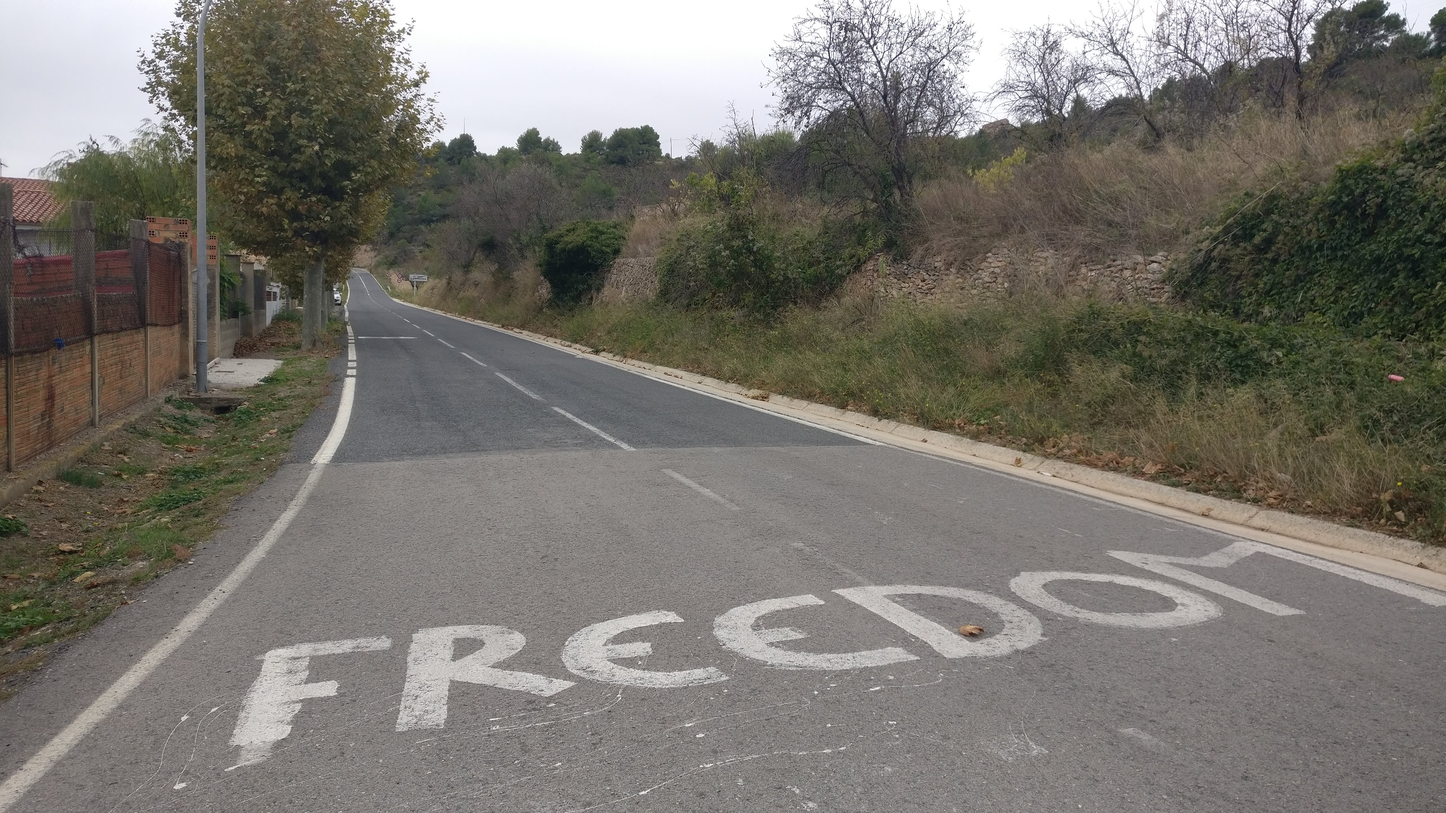
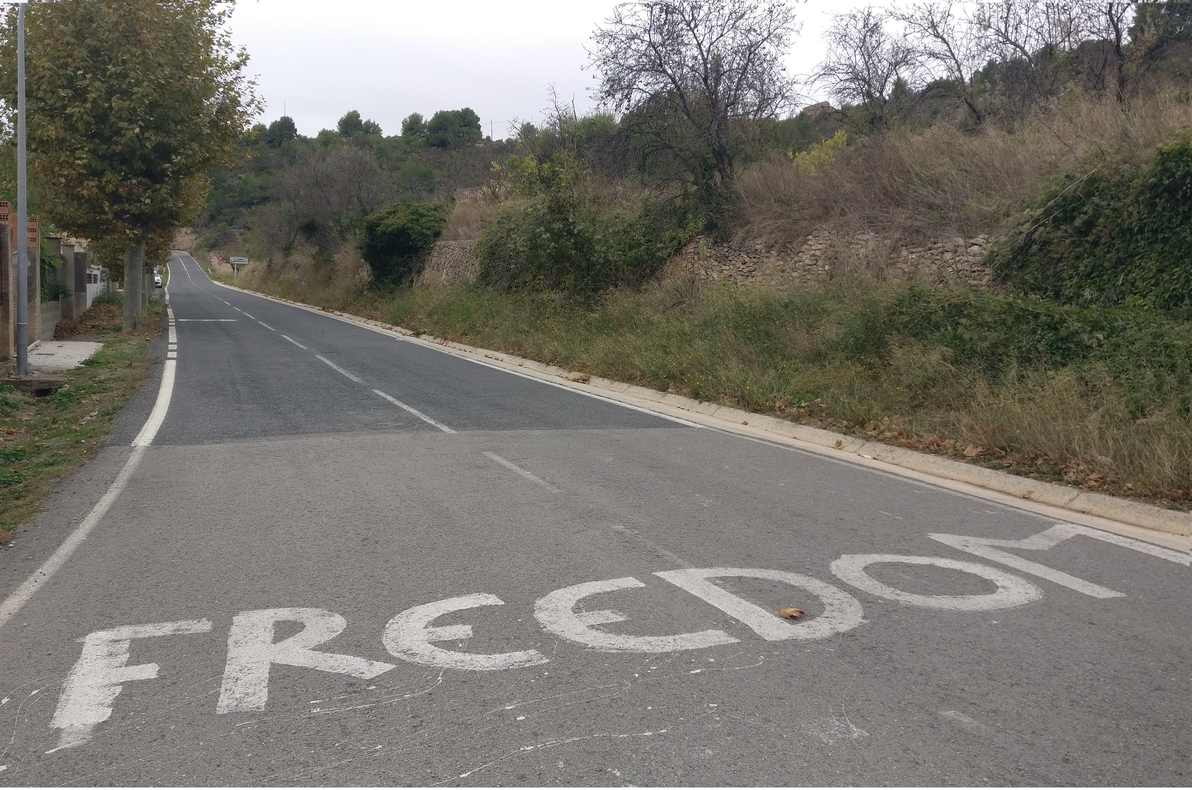
added shortcode  / start next post / image rework

diff --git a/assets/css/style-shortcodes.css b/assets/css/style-shortcodes.css
@@ -1,0 +1,51 @@
+div.notices {
+    position: relative;
+}
+div.notices p {
+    padding: 15px;
+    display: block;
+    margin-top: 0rem;
+    margin-bottom: 0rem;
+    color: #666;
+}
+div.notices p:first-child:before {
+    top: 2px;
+    color: #fff;
+    font-weight: 900;
+    content: "";
+    left: 10px;
+}
+div.notices p:first-child:after {
+    position: absolute;
+    top: 2px;
+    color: #fff;
+    left: 2rem;
+}
+div.notices.info p {
+    border-top: 30px solid #F0B37E;
+    background: #FFF2DB;
+}
+div.notices.info p:first-child:after {
+    content: '';
+}
+div.notices.warning p {
+    border-top: 30px solid rgba(217, 83, 79, 0.8);
+    background: #FAE2E2;
+}
+div.notices.warning p:first-child:after {
+    content: 'Warning';
+}
+div.notices.note p {
+    border-top: 30px solid #6AB0DE;
+    background: #E7F2FA;
+}
+div.notices.note p:first-child:after {
+    content: 'Note';
+}
+div.notices.wander p {
+    border-top: 30px solid rgba(184, 155, 92, 0.8);
+    background: #f3f2ef;
+}
+div.notices.wander p:first-child:after {
+    content: 'Kleine zijsprong';
+}

diff --git a/layouts/_default/single.html b/layouts/_default/single.html
@@ -75,8 +75,7 @@
     <div class="post-meta-wrapper post-meta-single post-meta-single-bottom">
 
       <div class="post-inner thin ">
-        <div class="entry-content">
-          -- <br>  
+        <div class="entry-content">  
           Als je hebt genoten van dit verhaal en graag op de hoogte wil 
           blijven van nieuw leesvoer, laat dan <a href="/../contact">hier</a> je contactgegevens 
           achter en ik laat je iets weten wanneer er nieuw materiaal verschijnt!

diff --git a/layouts/partials/head.html b/layouts/partials/head.html
@@ -15,6 +15,9 @@
 
   {{ $style := resources.Get "css/style.css" | minify }}
   <link rel="stylesheet" href="{{ $style.Permalink }}" media="screen">
+ 
+  {{ $styleshortcodes := resources.Get "css/style-shortcodes.css" | minify }}
+  <link rel="stylesheet" href="{{ $styleshortcodes.Permalink }}" media="screen">
 
   {{ "<!--Favicon-->" | safeHTML }}
   <link rel="shortcut icon" href="{{ `images/favicon.png` | absURL }}" type="image/x-icon">

diff --git a/layouts/shortcodes/notice.html b/layouts/shortcodes/notice.html
@@ -1,0 +1,4 @@
+<!-- Source https://github.com/matcornic/hugo-theme-learn -->
+
+{{ $_hugo_config := `{ "version": 1 }` }}
+<div class="notices {{ .Get 0 }}" >{{ .Inner }}</div>

diff --git a/exampleSite/content/blog/over-kleine-beetjes.md b/exampleSite/content/blog/over-kleine-beetjes.md
@@ -9,3 +9,15 @@ tags = []
 title = "Over kleine beetjes"
 
 +++
+
+{{% notice wander %}} Wanneer de weervrouw het over het vriespunt heeft, is het duidelijk dat ze daarmee 0° Celsius bedoelt. Maar wat is eigenlijk de vorm van water op exact deze temperatuur? 
+<br><br>
+We weten allemaal dat vloeibaar water in ijs verandert wanneer de temperatuur onder het vriespunt zakt, net zoals we ook weten dat ijs smelt als de temperatuur positief wordt. Maar wat gebeurt er op het overgangspunt?
+<br><br>
+https://www.quora.com/What-is-the-state-of-water-at-0-degree-celsius
+<br>NB. Voor het gemak heb ik even de impact van luchtdruk buiten beschouwing gelaten en ben ik ervan uitgegaan dat we het hebben over een situatie met 
+[*"atmosferische standaardomstandigheden"*](https://nl.wikipedia.org/wiki/Standaardomstandigheden "Wikipedia Standaardomstandigheden"). <br>
+<small>Tip: druk niet op bovenstaande link, aanvaard even dat het allemaal complexer is dan je in je hoofd had en vermijd een vicieuze cirkel van opzoekwerk en heel wat geopende browsertabs. <small>
+{{% /notice %}}
+
+---

diff --git a/exampleSite/content/blog/kunst-van-het-vertrekken.md b/exampleSite/content/blog/kunst-van-het-vertrekken.md
@@ -125,3 +125,5 @@ Ik ben er me van bewust dat ik waarschijnlijk heel mijn leven op zoek zal zijn n
 Panta Rhei, dus alles is mogelijk.
 
 Tijd om mijn stalen ros terug vol te laden. De horizon roept.
+
+---

diff --git a/exampleSite/content/blog/20210301_welcome.md b/exampleSite/content/blog/20210301_welcome.md
@@ -23,3 +23,5 @@ Tot snel!
 Daan
 
 Vragen? [Shoot!](/contact "Contact")
+
+---
